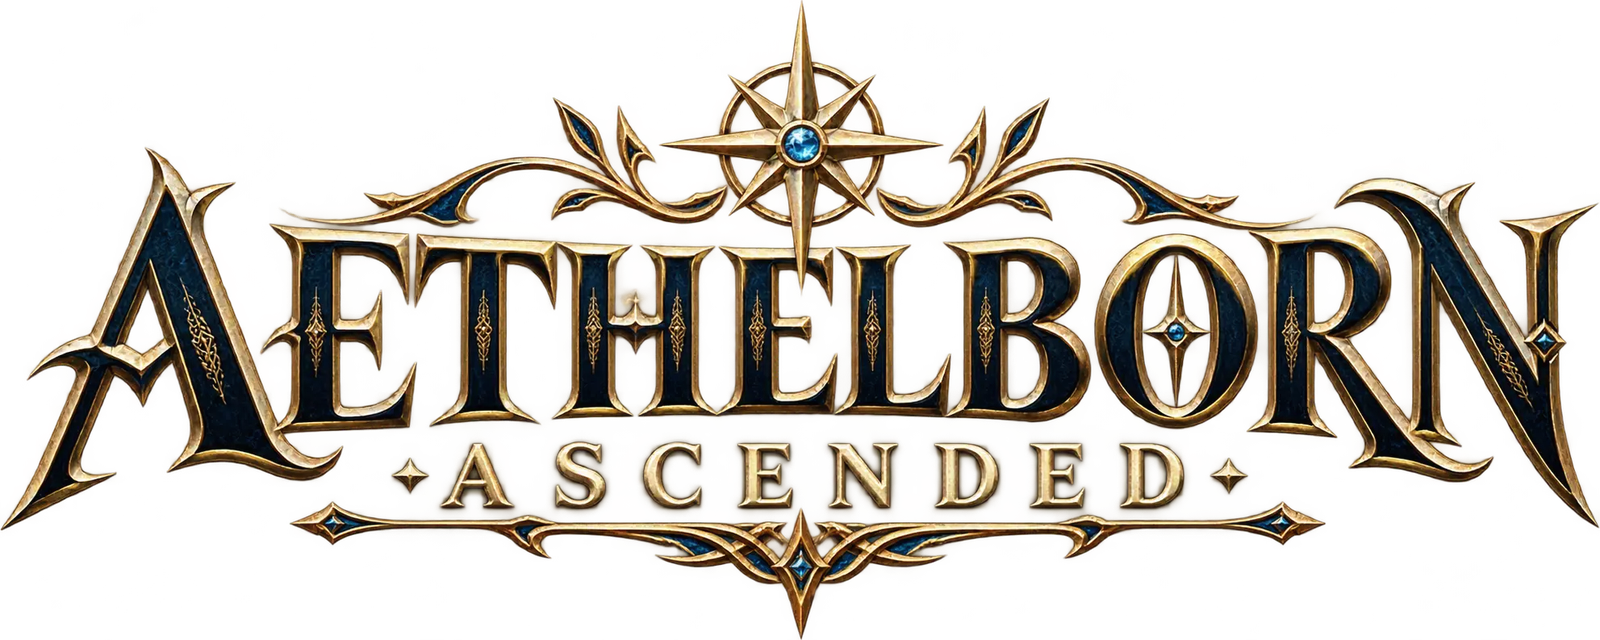
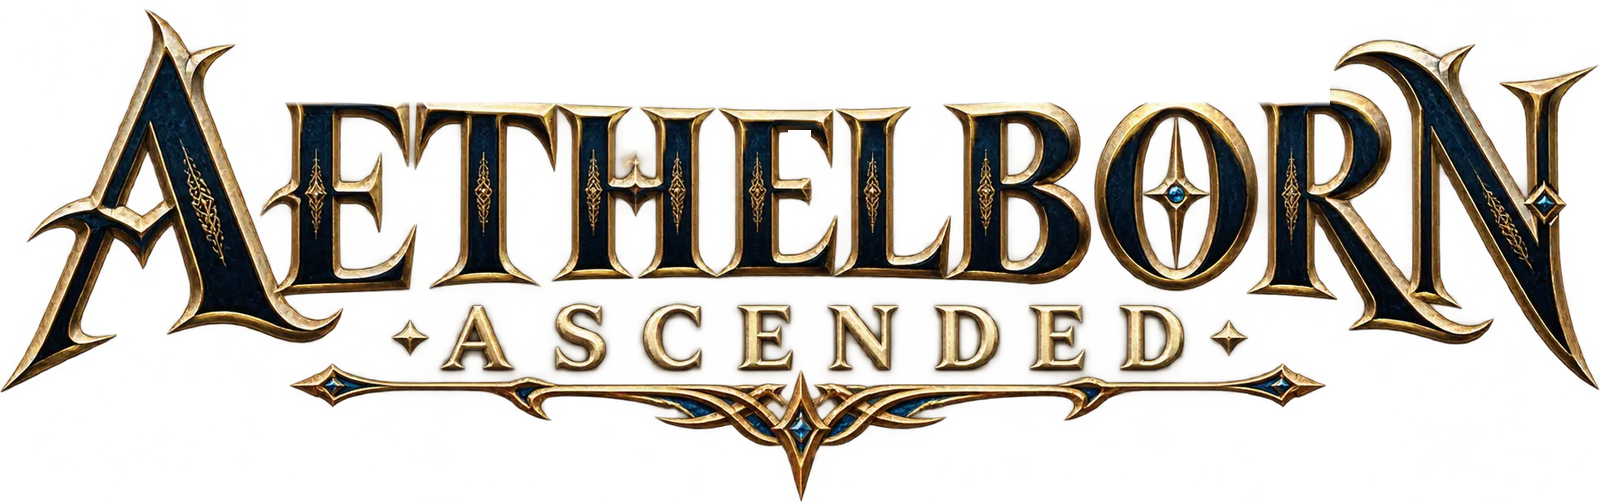
AA v0.25.276 Blue Title: main menu title replaces Deep North in its blue; top ornament removed from AA_Title.png
Claude-Session: https://claude.ai/code/session_01TP3UiT3b1HqArFdumDoGkB

diff --git a/AlbedosCustomClasses.Advanced.cs b/AlbedosCustomClasses.Advanced.cs
@@ -116,7 +116,7 @@ namespace AlbedosCustomClassesAdvanced
     {
         public const string ModGuid = "albedo.customclasses.advanced";
         public const string ModName = "Aethelborn Ascended - Advancements";
-        public const string ModVersion = "0.25.275";
+        public const string ModVersion = "0.25.276";
 
         private const string ClassDataKey = "AlbedoCustomClasses.Class";
         private const string AdvancementDataKey = "AlbedoCustomClasses.Advancement";
@@ -1306,6 +1306,7 @@ namespace AlbedosCustomClassesAdvanced
             if (fs == null)
             {
                 if (_ihTitleObj != null) { Destroy(_ihTitleObj); _ihTitleObj = null; }
+                _ihDeepNorth = null;
                 IhMenuMusicTick(on);   // v0.25.271 the menu music keeps following Valheim's own fade while the game loads
                 return;
             }
@@ -1315,6 +1316,9 @@ namespace AlbedosCustomClassesAdvanced
                 {
                     bool show = on && fs.m_mainMenu != null && fs.m_mainMenu.activeInHierarchy;
                     if (_ihTitleObj.activeSelf != show) _ihTitleObj.SetActive(show);
+                    // v0.25.276: our title takes Deep North's place; Valheim's Deep North comes back whenever ours is hidden
+                    if (_ihDeepNorth != null && _ihDeepNorth.enabled == show) _ihDeepNorth.enabled = !show;
+                    if (show && _ihDeepNorth != null) IhPlaceOnDeepNorth();
                 }
                 IhMenuMusicTick(on);
                 if (Time.unscaledTime < _ihMenuNext) return;
@@ -1322,6 +1326,122 @@ namespace AlbedosCustomClassesAdvanced
                 if (on && _ihTitleObj == null && fs.m_mainMenu != null) IhBuildTitle(fs);
             }
             catch (Exception ex) { if (!_ihTitleLogged) { _ihTitleLogged = true; Logger.LogWarning("[AA Menu] main menu skipped: " + ex.Message); } }
+        }
+
+        // ------------------------------------------------------------------ v0.25.276 title in Deep North's place
+        private UnityEngine.UI.Graphic _ihDeepNorth;
+        private bool _ihTitleBlue;
+        private Color _ihTitleTint = new Color(0.45f, 0.75f, 1f, 1f);
+        private readonly Vector3[] _ihDnCorners = new Vector3[4];
+
+        // Valheim's Deep North logo: a menu graphic whose object, sprite / texture or text says deep / north. A graphic that
+        // covers most of the screen is never taken (lesson: v0.25.264 "logo" spanned to the bottom).
+        private UnityEngine.UI.Graphic IhFindDeepNorth(RectTransform root, System.Text.StringBuilder seen)
+        {
+            UnityEngine.UI.Graphic[] gs = root.GetComponentsInChildren<UnityEngine.UI.Graphic>(true);
+            float sw = Mathf.Max(1f, Screen.width), sh = Mathf.Max(1f, Screen.height);
+            for (int i = 0; i < gs.Length; i++)
+            {
+                UnityEngine.UI.Graphic g = gs[i];
+                if (g == null || (_ihTitleObj != null && g.gameObject == _ihTitleObj)) continue;
+                string asset = "", text = "";
+                UnityEngine.UI.Image im = g as UnityEngine.UI.Image;
+                if (im != null && im.sprite != null) asset = im.sprite.name;
+                UnityEngine.UI.RawImage ri = g as UnityEngine.UI.RawImage;
+                if (ri != null && ri.texture != null) asset = ri.texture.name;
+                try { PropertyInfo tp = g.GetType().GetProperty("text", typeof(string)); if (tp != null) text = (tp.GetValue(g, null) as string) ?? ""; } catch (Exception) { }
+                string all = (g.gameObject.name + " " + asset + " " + text).ToLowerInvariant();
+                g.rectTransform.GetWorldCorners(_ihDnCorners);
+                float w = Mathf.Abs(_ihDnCorners[2].x - _ihDnCorners[0].x), h = Mathf.Abs(_ihDnCorners[2].y - _ihDnCorners[0].y);
+                if (g.gameObject.activeInHierarchy && seen.Length < 2500)
+                    seen.Append(g.gameObject.name).Append('[').Append(asset).Append(text.Length > 0 ? "|" + (text.Length > 20 ? text.Substring(0, 20) : text) : "").Append("] ");
+                if (all.IndexOf("deep", StringComparison.Ordinal) < 0 && all.IndexOf("north", StringComparison.Ordinal) < 0) continue;
+                if (w > sw * 0.8f || h > sh * 0.5f || w < 4f || h < 4f) { seen.Append("(rejected ").Append(g.gameObject.name).Append(' ').Append(Mathf.RoundToInt(w)).Append('x').Append(Mathf.RoundToInt(h)).Append(") "); continue; }
+                return g;
+            }
+            return null;
+        }
+
+        // our title over Deep North's rectangle every frame (it follows the logo if the menu moves it); as wide as Deep North
+        private void IhPlaceOnDeepNorth()
+        {
+            if (_ihTitleObj == null || _ihDeepNorth == null || _ihTitleTex == null) return;
+            RectTransform rt = (RectTransform)_ihTitleObj.transform;
+            RectTransform parent = rt.parent as RectTransform;
+            if (parent == null) return;
+            _ihDeepNorth.rectTransform.GetWorldCorners(_ihDnCorners);
+            float scale = Mathf.Max(0.0001f, parent.lossyScale.x);
+            float w = Mathf.Abs(_ihDnCorners[2].x - _ihDnCorners[0].x) / scale, h = Mathf.Abs(_ihDnCorners[2].y - _ihDnCorners[0].y) / scale;
+            float aspect = _ihTitleTex.height > 0 ? (float)_ihTitleTex.width / _ihTitleTex.height : 2.5f;
+            float tw = w * 1.15f, th = tw / aspect;
+            if (th > h * 3.2f) { th = h * 3.2f; tw = th * aspect; }
+            rt.anchorMin = rt.anchorMax = new Vector2(0.5f, 0.5f);
+            rt.pivot = new Vector2(0.5f, 0.5f);
+            rt.sizeDelta = new Vector2(tw, th);
+            rt.position = (_ihDnCorners[0] + _ihDnCorners[2]) * 0.5f;
+        }
+
+        // Deep North's colour: its picture read back through a small render texture (its tint applied); the colourful pixels win
+        private Color IhSampleColor(UnityEngine.UI.Graphic g)
+        {
+            Color tint = g.color;
+            try
+            {
+                Texture tex = null; Rect uv = new Rect(0f, 0f, 1f, 1f);
+                UnityEngine.UI.Image im = g as UnityEngine.UI.Image;
+                if (im != null && im.sprite != null && im.sprite.texture != null)
+                {
+                    tex = im.sprite.texture; Rect tr = im.sprite.textureRect;
+                    uv = new Rect(tr.x / tex.width, tr.y / tex.height, tr.width / tex.width, tr.height / tex.height);
+                }
+                UnityEngine.UI.RawImage ri = g as UnityEngine.UI.RawImage;
+                if (ri != null && ri.texture != null) { tex = ri.texture; uv = ri.uvRect; }
+                if (tex != null)
+                {
+                    RenderTexture rtx = RenderTexture.GetTemporary(96, 32, 0, RenderTextureFormat.ARGB32);
+                    Graphics.Blit(tex, rtx, new Vector2(uv.width, uv.height), new Vector2(uv.x, uv.y));
+                    RenderTexture prev = RenderTexture.active; RenderTexture.active = rtx;
+                    Texture2D read = new Texture2D(96, 32, TextureFormat.RGBA32, false);
+                    read.ReadPixels(new Rect(0f, 0f, 96f, 32f), 0, 0); read.Apply(false);
+                    RenderTexture.active = prev; RenderTexture.ReleaseTemporary(rtx);
+                    Color32[] px = read.GetPixels32(); Destroy(read);
+                    float r = 0f, gg = 0f, b = 0f, wsum = 0f;
+                    for (int i = 0; i < px.Length; i++)
+                    {
+                        Color c = px[i]; c *= tint;
+                        float h, s, v; Color.RGBToHSV(c, out h, out s, out v);
+                        float wgt = c.a * s * v;
+                        r += c.r * wgt; gg += c.g * wgt; b += c.b * wgt; wsum += wgt;
+                    }
+                    if (wsum > 0.5f) return new Color(r / wsum, gg / wsum, b / wsum, 1f);
+                }
+            }
+            catch (Exception ex) { Logger.LogWarning("[AA Menu] Deep North colour not readable: " + ex.Message); }
+            return tint;
+        }
+
+        // gold / bronze / cream parts of the title take Deep North's blue (same brightness, so the design and its shading stay);
+        // the dark letter fill and the blue gems are left as they are
+        private void IhRecolorTitle(Texture2D tex, Color sample)
+        {
+            float hb, sb, vb;
+            Color.RGBToHSV(sample, out hb, out sb, out vb);
+            if (sample.a <= 0f || sb < 0.15f || hb < 0.45f || hb > 0.75f) { hb = 0.57f; sb = 0.55f; }   // not a blue we can use: icy blue
+            _ihTitleTint = Color.HSVToRGB(hb, sb, 1f);
+            Color32[] px = tex.GetPixels32();
+            for (int i = 0; i < px.Length; i++)
+            {
+                Color32 p = px[i];
+                if (p.a == 0) continue;
+                float h, s, v; Color.RGBToHSV(p, out h, out s, out v);
+                float warm = Mathf.Clamp01(1f - Mathf.Max(0f, Mathf.Abs(h - 0.11f) - 0.06f) / 0.03f) * Mathf.Clamp01((s - 0.06f) / 0.12f);
+                if (warm <= 0f) continue;
+                Color blue = Color.HSVToRGB(hb, Mathf.Clamp01(sb * Mathf.Clamp01(s / 0.65f) * 1.1f), Mathf.Clamp01(v * 1.04f));
+                Color mixed = Color.Lerp(p, blue, warm);
+                px[i] = new Color32((byte)Mathf.RoundToInt(mixed.r * 255f), (byte)Mathf.RoundToInt(mixed.g * 255f), (byte)Mathf.RoundToInt(mixed.b * 255f), p.a);
+            }
+            tex.SetPixels32(px);
+            tex.Apply(true, false);
         }
 
         private void IhBuildTitle(FejdStartup fs)
@@ -1345,6 +1465,25 @@ namespace AlbedosCustomClassesAdvanced
             rt.SetParent(root, false);
             UnityEngine.UI.RawImage img = _ihTitleObj.AddComponent<UnityEngine.UI.RawImage>();
             img.texture = _ihTitleTex; img.raycastTarget = false;
+            // v0.25.276 (user): the title REPLACES Valheim's "Deep North" logo, in Deep North's blue
+            System.Text.StringBuilder seen = new System.Text.StringBuilder();
+            _ihDeepNorth = IhFindDeepNorth(root, seen);
+            if (!_ihTitleBlue)
+            {
+                _ihTitleBlue = true;
+                Color blue = _ihDeepNorth != null ? IhSampleColor(_ihDeepNorth) : new Color(0f, 0f, 0f, 0f);
+                IhRecolorTitle(_ihTitleTex, blue);
+            }
+            if (_ihDeepNorth != null)
+            {
+                _ihDeepNorth.enabled = false;
+                IhPlaceOnDeepNorth();
+                rt.SetAsLastSibling();
+                Logger.LogInfo("[AA Menu] title replaces Deep North ('" + _ihDeepNorth.gameObject.name + "', " + _ihDeepNorth.GetType().Name + "): " + Mathf.RoundToInt(rt.rect.width) + "x" + Mathf.RoundToInt(rt.rect.height) +
+                    " at " + Mathf.RoundToInt(rt.anchoredPosition.x) + "," + Mathf.RoundToInt(rt.anchoredPosition.y) + " from the canvas centre, blue " + ColorUtility.ToHtmlStringRGB(_ihTitleTint));
+                return;
+            }
+            Logger.LogWarning("[AA Menu] Valheim's Deep North logo was not found - title kept top-left (blue). Menu graphics seen: " + seen.ToString());
             // v0.25.267 (user sketch): the top-left corner, left of Valheim's logo - 28% of the screen wide (about 540 x 215 px
             // at 1080p), centred in the free space there (left 15.5% of the width), 6% down from the top.
             float aspect = _ihTitleTex.height > 0 ? (float)_ihTitleTex.width / _ihTitleTex.height : 2.5f;

diff --git a/AlbedosCustomClasses.Skills.cs b/AlbedosCustomClasses.Skills.cs
@@ -232,7 +232,7 @@ namespace AlbedosCustomClassesSkills
         public static SkillsPlugin Instance;
         public const string ModGuid = "albedo.customclasses.skills";
         public const string ModName = "Aethelborn Ascended - Starter Skills";
-        public const string ModVersion = "0.25.275";
+        public const string ModVersion = "0.25.276";
 
         private const string ClassDataKey = "AlbedoCustomClasses.Class";
         private const string WarriorRunBonusKey = "AlbedoCustomClasses.WarriorRunBonus";

diff --git a/AlbedosCustomClasses.GuardianAngel.cs b/AlbedosCustomClasses.GuardianAngel.cs
@@ -17,7 +17,7 @@ namespace AlbedosCustomClassesGuardian
     {
         public const string ModGuid = "albedo.customclasses.guardian";
         public const string ModName = "Aethelborn Ascended - Saving Grace";
-        public const string ModVersion = "0.25.275";
+        public const string ModVersion = "0.25.276";
 
         private const string AdvancementDataKey = "AlbedoCustomClasses.Advancement";
         // Each owner advertises only Priest membership; cooldowns remain on the protected player's client.

diff --git a/DragonsAltar.Sorcerer.cs b/DragonsAltar.Sorcerer.cs
@@ -165,7 +165,7 @@ namespace DragonsAltarSorcerer
     {
         public const string ModGuid = "albedo.customclasses.sorcerer";
         public const string ModName = "Aethelborn Ascended - Sorcerer Advancements";
-        public const string ModVersion = "0.25.275";
+        public const string ModVersion = "0.25.276";
 
         private const string ClassDataKey = "AlbedoCustomClasses.Class";
         private const string AdvancementDataKey = "AlbedoCustomClasses.Advancement";

diff --git a/DragonsAltar.Ranger.cs b/DragonsAltar.Ranger.cs
@@ -42,7 +42,7 @@ namespace DragonsAltarRanger
     {
         public const string ModGuid = "albedo.customclasses.ranger";
         public const string ModName = "Aethelborn Ascended - Ranger";
-        public const string ModVersion = "0.25.275";
+        public const string ModVersion = "0.25.276";
         private const string ClassDataKey = "AlbedoCustomClasses.Class";
         private const string AdvancementDataKey = "AlbedoCustomClasses.Advancement";
 

diff --git a/AlbedosCustomClasses.Core.cs b/AlbedosCustomClasses.Core.cs
@@ -41,7 +41,7 @@ namespace AlbedosCustomClasses
     {
         public const string ModGuid = "albedo.customclasses";
         public const string ModName = "Aethelborn Ascended - Altar";
-        public const string ModVersion = "0.25.275";
+        public const string ModVersion = "0.25.276";
 
         internal const string ClassDataKey = "AlbedoCustomClasses.Class";
         internal const string AdvancementDataKey = "AlbedoCustomClasses.Advancement";

diff --git a/Aethelborn.Experience.cs b/Aethelborn.Experience.cs
@@ -11,7 +11,7 @@ using UnityEngine;
 
 namespace AethelbornExperience
 {
-    [BepInPlugin("albedo.customclasses.exp", "Aethelborn Ascended - Experience", "0.25.275")]
+    [BepInPlugin("albedo.customclasses.exp", "Aethelborn Ascended - Experience", "0.25.276")]
     [BepInDependency("albedo.customclasses.advanced", BepInDependency.DependencyFlags.HardDependency)]
     public class ExperiencePlugin : BaseUnityPlugin
     {

diff --git a/DragonsAltar.CombatRuntime.cs b/DragonsAltar.CombatRuntime.cs
@@ -1595,7 +1595,7 @@ namespace DragonsAltarCombat
     {
         public const string ModGuid = "albedo.customclasses.combatruntime";
         public const string ModName = "Aethelborn Ascended - Combat Runtime";
-        public const string ModVersion = "0.25.275";
+        public const string ModVersion = "0.25.276";
 
         internal static DragonCombatPlugin Instance;
 

diff --git a/AlbedosCustomClasses.Passives.cs b/AlbedosCustomClasses.Passives.cs
@@ -9,7 +9,7 @@ namespace AlbedosCustomClassesPassives
     {
         public const string ModGuid = "albedo.customclasses.passives";
         public const string ModName = "Aethelborn Ascended - Base Blessings Compatibility";
-        public const string ModVersion = "0.25.275";
+        public const string ModVersion = "0.25.276";
 
         private void Awake()
         {

diff --git a/DragonsAltar.DevTools.cs b/DragonsAltar.DevTools.cs
@@ -41,7 +41,7 @@ namespace DragonsAltarDevTools
     {
         public const string ModGuid = "albedo.customclasses.devtools";
         public const string ModName = "Aethelborn Ascended - Developer Tools";
-        public const string ModVersion = "0.25.275";
+        public const string ModVersion = "0.25.276";
 
         public static DeveloperToolsPlugin Instance;
 

diff --git a/CLAUDE.md b/CLAUDE.md
@@ -127,3 +127,4 @@ Standing release reporting rule (user, 2026-10-19): every delivered pass must li
 30. A text that states a configurable number goes stale with the config: build tooltips from the config values (v274: "10m Spirit" Holy Shockwave text survived the v272 change).
 2026-10-25 — v0.25.275 Grace Footer (Claude): footer Grace box (671,551 41x39) is baked into each class canvas; now copied at load from the Grace node opening (393..441 x 421..466) in IhBuildKitCanvas (hasArt) and IhLoadPriestArtwork (hasOwn). Offline check of all 7 canvases: only Sword Master was stale (old KG swirl); Priest already matched (v260 note was wrong). Anchor v257.
 31. Verify an "outdated asset" claim by comparing pixels before reporting it (v260 wrongly listed the Priest footer); and derive duplicated art at load from one source instead of keeping two painted copies.
+2026-10-25 — v0.25.276 Blue Title (Claude): user: title replaces Valheim's Deep North logo, in Deep North's blue. IhFindDeepNorth (root canvas Graphics, name/sprite/texture/text contains deep|north, rejects >80% W / >50% H), hidden while ours shows (restored when option off), IhPlaceOnDeepNorth each frame (centre, 1.15x width, height cap 3.2x), IhSampleColor (Blit sprite rect to 96x32 RT, ReadPixels, sat*val*alpha-weighted mean x tint), IhRecolorTitle (warm hue 0.05-0.17 -> sampled hue, same V; icy fallback h .57 s .55). AA_Title.png: top ornament removed (alpha 0 above y240 for x245-1330, E spike repaired by row interpolation 784-814), cropped to 1600x502. Fallback top-left + log of seen graphics. Anchor v257.
